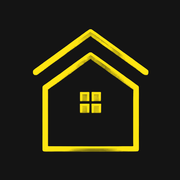
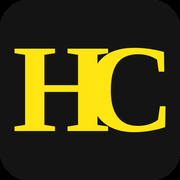
Add files via upload

Changed region(s): [[0.0556, 0.1389, 0.9444, 0.8611]]

diff --git a/Cutfield & Co Website/index.html b/Cutfield & Co Website/index.html
@@ -55,7 +55,7 @@
 
 <link rel="preconnect" href="https://fonts.googleapis.com">
 <link rel="preconnect" href="https://fonts.gstatic.com" crossorigin>
-<link href="https://fonts.googleapis.com/css2?family=Cormorant+Garamond:ital,wght@0,400;0,500;0,600;1,400;1,500&family=Montserrat:wght@300;400;500;600&family=Playfair+Display:wght@600;700&display=swap" rel="stylesheet">
+<link href="https://fonts.googleapis.com/css2?family=Lato:ital,wght@0,300;0,400;0,700;0,900;1,400&family=Playfair+Display:wght@400;500;600;700;800&display=swap" rel="stylesheet">
 
 <style>
 :root{
@@ -67,8 +67,8 @@
  --paper-2:#FAF8F2;
  --line:#e3ddcf;
  --muted:#5a5446;
- --serif:'Cormorant Garamond', Georgia, serif;
- --sans:'Montserrat', -apple-system, 'Segoe UI', sans-serif;
+ --serif:'Playfair Display', Georgia, serif;
+ --sans:'Lato', -apple-system, 'Segoe UI', sans-serif;
  --maxw:1240px;
  --ease:cubic-bezier(.22,.61,.36,1);
 }
@@ -451,6 +451,8 @@ footer .brand .mark svg text{fill:#141414}
 .offmkt.compact{padding:72px 0}
 .offmkt.compact .sec-head{margin-bottom:34px}
 .offmkt.compact .off-wrap{min-height:0}
+.offmkt.compact.locked .off-wrap{min-height:640px}
+.offmkt.compact .off-gate{place-items:center}
 .offmkt.compact .off-grid{grid-template-columns:repeat(4,1fr);gap:20px}
 .offmkt.compact .off-card .body{padding:18px}
 .offmkt.compact .off-card h3{font-size:19px}
@@ -501,6 +503,7 @@ footer .brand .mark svg text{fill:#141414}
 .card .card-actions{margin-top:14px;padding-top:14px;border-top:1px solid var(--line);display:flex;flex-wrap:wrap;gap:18px}
 .card .enq-link,.card .view-link{font-size:11px;letter-spacing:2px;text-transform:uppercase;font-weight:600;color:var(--rw-yellow-deep);background:none;border:0;padding:0;cursor:pointer;font-family:var(--sans)}
 .card .enq-link:hover,.card .view-link:hover{color:var(--ink)}
+.listing-card{cursor:pointer}
 .lightbox{position:fixed;inset:0;z-index:300;display:none;align-items:center;justify-content:center;background:rgba(8,8,8,.93);padding:30px}
 .lightbox.open{display:flex}
 .lightbox .lb-img{max-width:90vw;max-height:84vh;object-fit:contain;box-shadow:0 40px 100px -30px rgba(0,0,0,.8)}
@@ -891,7 +894,7 @@ footer .brand .mark svg text{fill:#141414}
  <div class="wrap">
  <div class="fgrid">
  <div>
- <a href="#top" class="brand"><span class="mark"><svg viewBox="0 0 120 120" aria-hidden="true"><text x="60" y="80" text-anchor="middle" font-family="'Cormorant Garamond',Georgia,serif" font-size="72" font-weight="600" letter-spacing="-7" fill="#141414">HC</text></svg></span><span class="name">Harrison Cutfield<small>Ray White</small></span></a>
+ <a href="#top" class="brand"><span class="mark"><svg viewBox="0 0 120 120" aria-hidden="true"><text x="60" y="80" text-anchor="middle" font-family="'Playfair Display',Georgia,serif" font-size="64" font-weight="700" letter-spacing="-4" fill="#141414">HC</text></svg></span><span class="name">Harrison Cutfield<small>Ray White</small></span></a>
  <p style="margin-top:18px;font-size:14px;max-width:300px;">Bespoke real estate on Auckland's North Shore. Considered marketing, sharp negotiation, results that last.</p>
  <div class="socials" id="socials">
  <a href="#" aria-label="Facebook" data-soc="facebook">f</a>
@@ -1028,13 +1031,14 @@ async function load(file){try{const r=await fetch('data/'+file,{cache:'no-store'
  const track=car.querySelector('.carousel-track');if(!track)return;
  const step=()=>{const c=track.querySelector('.card');return c?c.getBoundingClientRect().width+30:380;};
  const reduce=window.matchMedia('(prefers-reduced-motion:reduce)').matches;
- let raf=null,hovering=false,down=false,sx=0,sl=0;
+ let raf=null,hovering=false,down=false,sx=0,sl=0,moved=false;
  let acc=0;const loop=()=>{const half=track.scrollWidth/2;acc+=0.175;const inc=Math.floor(acc);if(inc){acc-=inc;track.scrollLeft+=inc;if(half&&track.scrollLeft>=half)track.scrollLeft-=half;}raf=requestAnimationFrame(loop);};
  const play=()=>{if(reduce||raf||down||hovering)return;raf=requestAnimationFrame(loop);};
  const stop=()=>{if(raf){cancelAnimationFrame(raf);raf=null;}};
  car.querySelectorAll('.carousel-arrow').forEach(b=>b.addEventListener('click',()=>track.scrollBy({left:(+b.dataset.dir)*step(),behavior:'smooth'})));
- track.addEventListener('pointerdown',e=>{down=true;sx=e.clientX;sl=track.scrollLeft;track.classList.add('grabbing');try{track.setPointerCapture(e.pointerId);}catch(_){}stop();});
- track.addEventListener('pointermove',e=>{if(down)track.scrollLeft=sl-(e.clientX-sx);});
+ track.addEventListener('pointerdown',e=>{down=true;moved=false;sx=e.clientX;sl=track.scrollLeft;track.classList.add('grabbing');try{track.setPointerCapture(e.pointerId);}catch(_){}stop();});
+ track.addEventListener('pointermove',e=>{if(down){if(Math.abs(e.clientX-sx)>6)moved=true;track.scrollLeft=sl-(e.clientX-sx);}});
+ track.addEventListener('click',e=>{if(moved){e.preventDefault();e.stopPropagation();moved=false;}},true);
  const endDrag=()=>{if(down){down=false;track.classList.remove('grabbing');play();}};
  track.addEventListener('pointerup',endDrag);track.addEventListener('pointercancel',endDrag);
  car.addEventListener('mouseenter',()=>{hovering=true;stop();});
@@ -1042,7 +1046,7 @@ async function load(file){try{const r=await fetch('data/'+file,{cache:'no-store'
  play();
  }
  const listingCard=l=>`
- <article class="card" data-suburb="${esc(l.suburb||'')}" data-beds="${Number(l.beds)||0}" data-baths="${Number(l.baths)||0}" data-price="${Number(l.priceValue)||0}">
+ <article class="card listing-card" data-suburb="${esc(l.suburb||'')}" data-beds="${Number(l.beds)||0}" data-baths="${Number(l.baths)||0}" data-price="${Number(l.priceValue)||0}" data-ref="${esc(l.address||'')}${l.suburb?', '+esc(l.suburb):''}" data-kind="listing">
  ${imgCell(l.image,'Listing Image (3:2)',`<span class="price">${esc(l.price)}</span><span class="status">${esc(l.method)}</span>`)}
  <div class="body"><h3>${esc(l.address)}</h3><div class="meta">${esc(l.suburb)}</div>
  <div class="feats"><span>${esc(l.beds)} Bed</span><span>${esc(l.baths)} Bath</span><span>${esc(l.cars)} Car</span></div><div class="card-actions"><button class="enq-link" data-kind="listing" data-ref="${esc(l.address||'')}${l.suburb?', '+esc(l.suburb):''}">Enquire</button><button class="view-link" data-ref="${esc(l.address||'')}${l.suburb?', '+esc(l.suburb):''}">Book a viewing</button></div></div>
@@ -1299,6 +1303,7 @@ if(enqModal){
  document.getElementById('enqClose').addEventListener('click',closeEnq);
  enqModal.addEventListener('click',e=>{if(e.target===enqModal)closeEnq();});
  document.addEventListener('click',e=>{const b=e.target.closest('.enq-link');if(!b)return;e.preventDefault();openEnq(b.dataset.ref,b.dataset.kind);});
+ document.addEventListener('click',e=>{if(e.target.closest('.enq-link')||e.target.closest('.view-link'))return;const card=e.target.closest('.listing-card[data-ref]');if(!card)return;e.preventDefault();openEnq(card.dataset.ref,'listing');});
  ef2.addEventListener('submit',async e=>{e.preventDefault();if(!ef2.reportValidity())return;
  const fd=new FormData(ef2);const ref=ef2.dataset.ref||'';if(ref)fd.append('Property',ref);
  eBtn.disabled=true;eBtn.textContent='Sending…';eMsg.style.color='var(--muted)';eMsg.textContent='';

diff --git a/Cutfield & Co Website/offmarket.html b/Cutfield & Co Website/offmarket.html
@@ -10,9 +10,9 @@
 <meta name="description" content="Private, off-market listings, Harrison Cutfield, Ray White North Shore.">
 <link rel="preconnect" href="https://fonts.googleapis.com">
 <link rel="preconnect" href="https://fonts.gstatic.com" crossorigin>
-<link href="https://fonts.googleapis.com/css2?family=Cormorant+Garamond:ital,wght@0,400;0,500;0,600;1,400&family=Montserrat:wght@300;400;500;600&family=Playfair+Display:wght@600;700&display=swap" rel="stylesheet">
+<link href="https://fonts.googleapis.com/css2?family=Lato:ital,wght@0,300;0,400;0,700;0,900;1,400&family=Playfair+Display:wght@400;500;600;700;800&display=swap" rel="stylesheet">
 <style>
-:root{--rw-yellow:#FFE512;--rw-yellow-deep:#F2D200;--ink:#141414;--ink-soft:#2b2b2b;--paper:#FAF8F2;--line:#e4e0d6;--muted:#5a5446;--maxw:1240px;--serif:'Cormorant Garamond',Georgia,serif;--sans:'Montserrat',sans-serif}
+:root{--rw-yellow:#FFE512;--rw-yellow-deep:#F2D200;--ink:#141414;--ink-soft:#2b2b2b;--paper:#FAF8F2;--line:#e4e0d6;--muted:#5a5446;--maxw:1240px;--serif:'Playfair Display',Georgia,serif;--sans:'Lato',sans-serif}
 *{box-sizing:border-box;margin:0;padding:0}
 body{font-family:var(--sans);font-weight:400;color:var(--ink);background:var(--paper);line-height:1.65;-webkit-font-smoothing:antialiased}
 .wrap{max-width:var(--maxw);margin:0 auto;padding:0 28px}

diff --git a/Cutfield & Co Website/listings.html b/Cutfield & Co Website/listings.html
@@ -10,9 +10,9 @@
 <meta name="description" content="All current listings, Harrison Cutfield, Ray White North Shore.">
 <link rel="preconnect" href="https://fonts.googleapis.com">
 <link rel="preconnect" href="https://fonts.gstatic.com" crossorigin>
-<link href="https://fonts.googleapis.com/css2?family=Cormorant+Garamond:ital,wght@0,400;0,500;0,600;1,400&family=Montserrat:wght@300;400;500;600&family=Playfair+Display:wght@600;700&display=swap" rel="stylesheet">
+<link href="https://fonts.googleapis.com/css2?family=Lato:ital,wght@0,300;0,400;0,700;0,900;1,400&family=Playfair+Display:wght@400;500;600;700;800&display=swap" rel="stylesheet">
 <style>
-:root{--rw-yellow:#FFE512;--rw-yellow-deep:#F2D200;--ink:#141414;--ink-soft:#2b2b2b;--paper:#FAF8F2;--line:#e4e0d6;--muted:#5a5446;--maxw:1240px;--serif:'Cormorant Garamond',Georgia,serif;--sans:'Montserrat',sans-serif}
+:root{--rw-yellow:#FFE512;--rw-yellow-deep:#F2D200;--ink:#141414;--ink-soft:#2b2b2b;--paper:#FAF8F2;--line:#e4e0d6;--muted:#5a5446;--maxw:1240px;--serif:'Playfair Display',Georgia,serif;--sans:'Lato',sans-serif}
 *{box-sizing:border-box;margin:0;padding:0}
 body{font-family:var(--sans);font-weight:400;color:var(--ink);background:var(--paper);line-height:1.65;-webkit-font-smoothing:antialiased}
 .wrap{max-width:var(--maxw);margin:0 auto;padding:0 28px}

diff --git a/Cutfield & Co Website/sales.html b/Cutfield & Co Website/sales.html
@@ -10,9 +10,9 @@
 <meta name="description" content="Recent sales, Harrison Cutfield, Ray White North Shore.">
 <link rel="preconnect" href="https://fonts.googleapis.com">
 <link rel="preconnect" href="https://fonts.gstatic.com" crossorigin>
-<link href="https://fonts.googleapis.com/css2?family=Cormorant+Garamond:ital,wght@0,400;0,500;0,600;1,400&family=Montserrat:wght@300;400;500;600&family=Playfair+Display:wght@600;700&display=swap" rel="stylesheet">
+<link href="https://fonts.googleapis.com/css2?family=Lato:ital,wght@0,300;0,400;0,700;0,900;1,400&family=Playfair+Display:wght@400;500;600;700;800&display=swap" rel="stylesheet">
 <style>
-:root{--rw-yellow:#FFE512;--rw-yellow-deep:#F2D200;--ink:#141414;--ink-soft:#2b2b2b;--paper:#FAF8F2;--line:#e4e0d6;--muted:#5a5446;--maxw:1240px;--serif:'Cormorant Garamond',Georgia,serif;--sans:'Montserrat',sans-serif}
+:root{--rw-yellow:#FFE512;--rw-yellow-deep:#F2D200;--ink:#141414;--ink-soft:#2b2b2b;--paper:#FAF8F2;--line:#e4e0d6;--muted:#5a5446;--maxw:1240px;--serif:'Playfair Display',Georgia,serif;--sans:'Lato',sans-serif}
 *{box-sizing:border-box;margin:0;padding:0}
 body{font-family:var(--sans);font-weight:400;color:var(--ink);background:var(--paper);line-height:1.65;-webkit-font-smoothing:antialiased}
 .wrap{max-width:var(--maxw);margin:0 auto;padding:0 28px}
